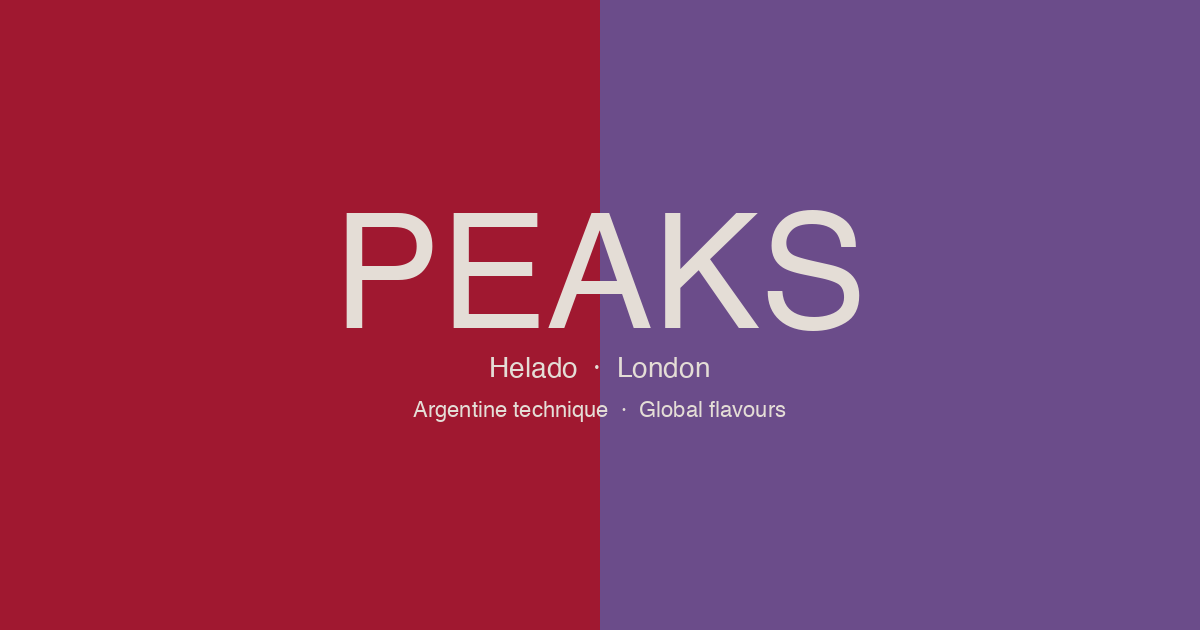
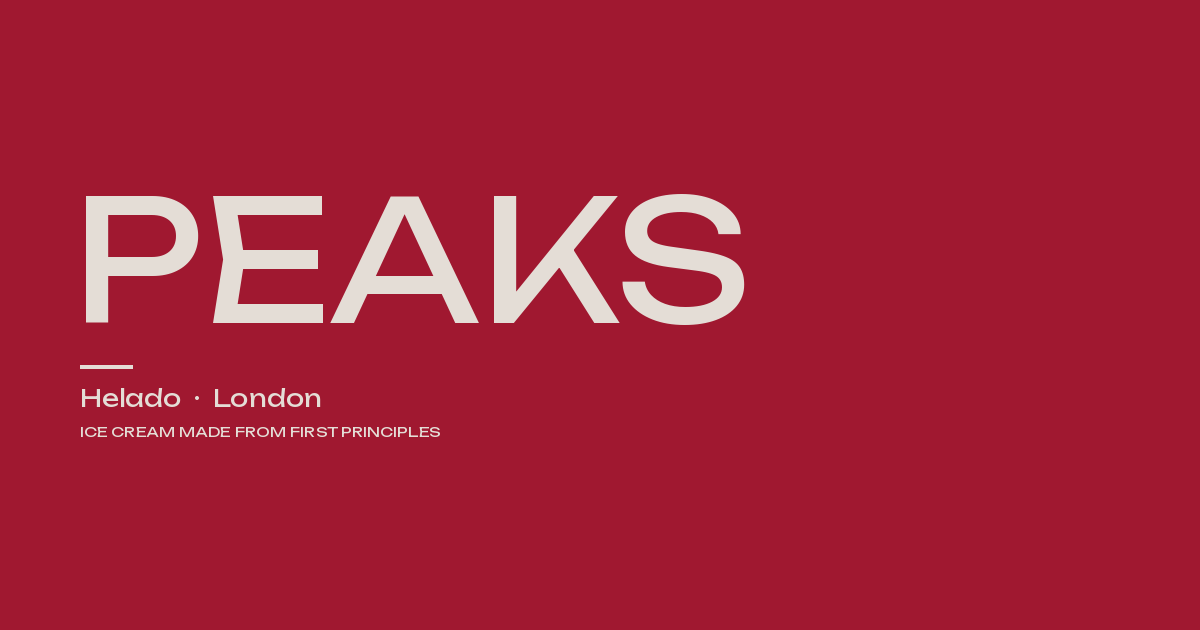
Fix OG image: Unbounded font, crimson hero style, no Argentine tagline

diff --git a/index.html b/index.html
@@ -7,7 +7,7 @@
 
 <!-- OG / WhatsApp preview -->
 <meta property="og:title" content="PEAKS — Helado · London">
-<meta property="og:description" content="Argentine technique. Global flavours. Ice cream made from first principles.">
+<meta property="og:description" content="Ice cream made from first principles.">
 <meta property="og:image" content="https://peakslondon.com/og-image.png">
 <meta property="og:image:width" content="1200">
 <meta property="og:image:height" content="630">
